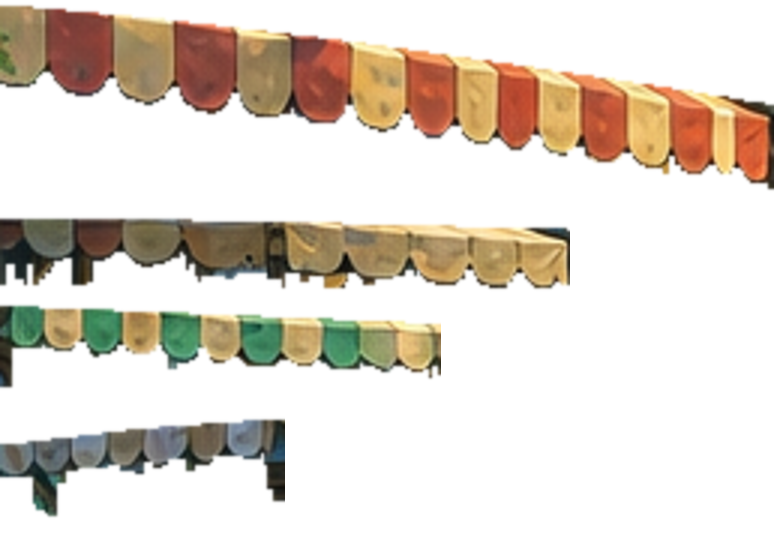
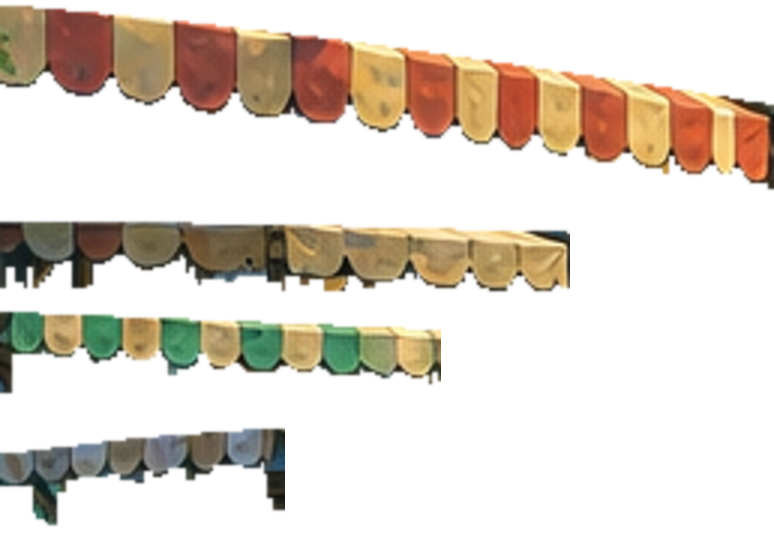
Elderbrook: swaying branch cut-out, repainted fringe backing, painted leaves, sky mask fix

diff --git a/eb/eb.js b/eb/eb.js
@@ -244,17 +244,33 @@ const P = { x: S.spawn[0], z: S.spawn[1], facing: S.facing, speed: 0 };
 
 // ---------------- VFX: falling leaves + sunlit dust motes ----------------
 const fx = new THREE.Group(); scene.add(fx);
-const leafTex = (() => { const c = document.createElement("canvas"); c.width = c.height = 32; const x = c.getContext("2d");
-  x.fillStyle = "#6f9a3a"; x.beginPath(); x.ellipse(16, 16, 11, 6, 0.6, 0, 7); x.fill(); x.strokeStyle = "#3f6a22"; x.lineWidth = 1.5; x.beginPath(); x.moveTo(7, 22); x.lineTo(25, 10); x.stroke();
-  return new THREE.CanvasTexture(c); })();
+// hand-painted leaves (a 2x2 sheet in the plate's style) on small curled cards, so they never read as flat squares
+const leafSheet = await texLoader.loadAsync("./plates/leaves.png"); leafSheet.colorSpace = THREE.SRGBColorSpace;
+const leafTexs = [0, 1, 2, 3].map(k => { const t = leafSheet.clone(); t.repeat.set(0.5, 0.5); t.offset.set((k % 2) * 0.5, k < 2 ? 0.5 : 0); t.needsUpdate = true; return t; });
+const leafGeo = new THREE.PlaneGeometry(1, 1, 6, 6);
+{ const q = leafGeo.attributes.position; for (let k = 0; k < q.count; k++) { const a = (q.getX(k) + q.getY(k)) * 0.7071, b = (q.getX(k) - q.getY(k)) * 0.7071;   // a = along the midrib, b = across it
+    q.setZ(k, 0.55 * b * b - 0.22 * a * a + 0.12 * a * b); } leafGeo.computeVertexNormals(); }
 const leaves = [];
-for (let i = 0; i < 14; i++) {
-  const m = new THREE.Mesh(new THREE.PlaneGeometry(0.16, 0.16), new THREE.MeshBasicMaterial({ map: leafTex, transparent: true, side: THREE.DoubleSide, depthWrite: false }));
+for (let i = 0; i < 9; i++) {
+  const m = new THREE.Mesh(leafGeo, new THREE.MeshBasicMaterial({ map: leafTexs[[0, 1, 2, 0, 1, 3, 2, 0, 1][i]], alphaTest: 0.02, transparent: true, opacity: 0, side: THREE.DoubleSide, depthWrite: false }));
   m.userData = { seed: Math.random() * 100 }; resetLeaf(m, true); fx.add(m); leaves.push(m);
 }
-function resetLeaf(m, any) {
-  m.position.set(-7 + Math.random() * 6, floorAt(0, -8) + 4 + Math.random() * (any ? 3 : 1.5), -4 - Math.random() * 9);
-  m.userData.vy = 0.25 + Math.random() * 0.25; m.userData.vx = 0.35 + Math.random() * 0.4;
+function resetLeaf(m, any) { const u = m.userData;
+  m.position.set(-9 + Math.random() * 12, floorAt(0, -8) + (any ? 0.5 + Math.random() * 5 : 4.5 + Math.random() * 1.5), -3.5 - Math.random() * 11);
+  u.vy = 0.38 + Math.random() * 0.22; u.vx = 0.25 + Math.random() * 0.3; u.w = 1.7 + Math.random() * 1.1; u.sway = 0.35 + Math.random() * 0.35;
+  u.spin = Math.random() < 0.45 ? 2.2 + Math.random() * 2.5 : 0; u.age = 0; u.rest = 0; m.scale.setScalar(0.2 + Math.random() * 0.12);
+}
+function updateLeaf(m, dt) { const u = m.userData; u.age += dt;
+  if (u.rest > 0) { u.rest += dt; m.material.opacity = Math.max(0, 1 - (u.rest - 2.5) / 1.5); if (u.rest > 4) resetLeaf(m, false); return; }
+  const sw = time * u.w + u.seed, s = Math.sin(sw), c = Math.cos(sw);
+  // a falling leaf glides side to side like a pendulum: fastest and flattest mid-swing, stalling and dropping at each end
+  m.position.y -= u.vy * (0.55 + 0.75 * s * s) * dt;
+  m.position.x += (u.vx * (0.6 + 0.8 * Math.sin(time * 0.31 + u.seed)) + u.sway * u.w * c * 0.5) * dt;
+  m.position.z += 0.12 * Math.sin(sw * 0.63 + 1.0) * dt;
+  m.rotation.set(u.spin ? time * u.spin + u.seed : -1.15 + 0.35 * Math.sin(sw * 2.0), u.seed + time * 0.4, -0.75 * c);   // banks into each swing; some also tumble end over end
+  m.material.opacity = Math.min(1, u.age / 0.7);
+  const gy = floorAt(m.position.x, m.position.z) + 0.02;
+  if (m.position.y < gy) { m.position.y = gy; m.rotation.set(-Math.PI / 2, 0, u.seed); u.rest = 0.001; }       // settles flat on the cobbles, then fades
 }
 const moteGeo = new THREE.BufferGeometry(), N = 90, mp = new Float32Array(N * 3);
 for (let i = 0; i < N; i++) mp.set([-6 + Math.random() * 12, Math.random() * 3.5, -4 - Math.random() * 14], i * 3);
@@ -316,8 +332,7 @@ function step(dt) {
   sun.position.copy(hero.position).addScaledVector(sunDir, 30); sun.target.position.copy(hero.position);
   // VFX
   window.__cloudMat.uniforms.t.value = time; lightU.lightT.value = time;
-  for (const m of leaves) { const u = m.userData; m.position.y -= u.vy * dt; m.position.x += (u.vx + Math.sin(time * 1.3 + u.seed) * 0.4) * dt;
-    m.rotation.set(time * 1.7 + u.seed, time * 2.3 + u.seed, time + u.seed); if (m.position.y < floorAt(m.position.x, m.position.z) + 0.05) resetLeaf(m, false); }
+  for (const m of leaves) updateLeaf(m, dt);
   const mpos = moteGeo.attributes.position; for (let i = 0; i < N; i++) { mpos.array[i * 3 + 1] += Math.sin(time * 0.6 + i) * 0.0015; mpos.array[i * 3] += 0.002 * Math.sin(time * 0.3 + i * 1.7); } mpos.needsUpdate = true;
   // exits
   nearExit = S.exits.find(x => P.z < x.z) || null;
@@ -423,6 +438,38 @@ const banners = [];
             #include <colorspace_fragment>
           }` });
       const m = new THREE.Mesh(g, mat); m.frustumCulled = false; m.renderOrder = 5; scene.add(m); banners.push(m); }); } }
+// The branch overhanging the corner: one cut-out that rocks from where it leaves the frame, its leaf clumps stirring on top of that.
+{ const bj = await fetch(`${base}_branch.json`).then(r => r.ok ? r.json() : null).catch(() => null);
+  if (bj) { const tex = await texLoader.loadAsync(`${base}_branch.png`); tex.colorSpace = THREE.SRGBColorSpace;
+    const [PW, PH] = bj.size, [x0, y0, x1, y1] = bj.rect, D = bj.depth, g = new THREE.PlaneGeometry(1, 1, 36, 12), pos = g.attributes.position, uv = g.attributes.uv, hang = new Float32Array(pos.count * 2), v = new THREE.Vector3();
+    for (let k = 0; k < pos.count; k++) { const px = x0 + (x1 - x0) * uv.getX(k), py = y0 + (y1 - y0) * (1 - uv.getY(k));
+      v.set((px / PW * K.width - K.cx) / K.fx * D, -(py / PH * K.height - K.cy) / K.fy * D, -D).applyMatrix4(camera.matrixWorld); pos.setXYZ(k, v.x, v.y, v.z);
+      hang[k * 2] = px - bj.pivot[0]; hang[k * 2 + 1] = py - bj.pivot[1]; }
+    g.setAttribute("hang", new THREE.BufferAttribute(hang, 2));
+    const mat = new THREE.ShaderMaterial({ transparent: true, depthWrite: false, side: THREE.DoubleSide,
+      uniforms: { map: { value: tex }, t: { value: 0 }, pxw: { value: K.width / PW / K.fx * D }, amp: { value: +(params.get("cloth") || 1) } },
+      vertexShader: `attribute vec2 hang; uniform float t, pxw, amp; varying vec2 vUv; varying float vSh;
+        float hash(vec2 p){ return fract(sin(dot(p, vec2(127.1, 311.7))) * 43758.5453); }
+        float vnoise(vec2 p){ vec2 i = floor(p), f = fract(p); f = f * f * (3.0 - 2.0 * f);
+          return mix(mix(hash(i), hash(i + vec2(1.0, 0.0)), f.x), mix(hash(i + vec2(0.0, 1.0)), hash(i + vec2(1.0, 1.0)), f.x), f.y); }
+        void main(){
+          vUv = uv; float r = length(hang) / 300.0;
+          float gust = smoothstep(0.25, 0.7, vnoise(vec2(0.1 * 2.2 - t * 0.3, 1.5 + t * 0.05))), wind = 0.25 + 0.75 * gust;
+          // the bough dips and recovers; the further from where it is anchored, the more it travels
+          float ang = amp * wind * (0.012 * sin(t * 0.8) + 0.02 * (vnoise(vec2(t * 0.35, 4.0)) - 0.5));
+          vec2 d = vec2(-hang.y, hang.x) * ang;
+          // leaf clumps stir on their own
+          vec2 q = hang * 0.022;
+          d += amp * wind * r * 3.2 * (vec2(vnoise(q + vec2(t * 0.9, 0.0)), vnoise(q * 1.2 + vec2(7.0, t * 0.7))) - 0.5);
+          d += amp * wind * r * 1.2 * (vec2(vnoise(q * 3.1 + vec2(t * 2.1, 3.0)), vnoise(q * 2.7 + vec2(1.0, t * 1.8))) - 0.5);
+          vec4 mv = modelViewMatrix * vec4(position, 1.0); mv.x += d.x * pxw; mv.y -= d.y * pxw;
+          vSh = 1.0 + 0.08 * wind * (vnoise(q * 1.5 + vec2(t * 0.8, 9.0)) - 0.5) * 2.0;
+          gl_Position = projectionMatrix * mv; }`,
+      fragmentShader: `uniform sampler2D map; varying vec2 vUv; varying float vSh;
+        void main(){ vec4 c = texture2D(map, vUv); if (c.a < 0.01) discard; gl_FragColor = vec4(c.rgb * vSh, c.a);
+          #include <colorspace_fragment>
+        }` });
+    const m = new THREE.Mesh(g, mat); m.frustumCulled = false; m.renderOrder = 6; scene.add(m); banners.push(m); } }
 function animateFx() {
   for (const b of banners) b.material.uniforms.t.value = time;
   bgMat.uniforms.t.value = time; shaftMat.uniforms.t.value = time;

diff --git a/eb/index.html b/eb/index.html
@@ -47,6 +47,6 @@
 <div id="dialog"><div class="n"></div><div class="x"></div></div>
 <div id="fade"></div>
 <div id="title"><h1>Elderbrook</h1><p>WASD / arrows to walk &nbsp;·&nbsp; Shift to run &nbsp;·&nbsp; E to inspect</p><div class="go" id="go">Loading…</div></div>
-<script type="module" src="./eb.js?v=3"></script>
+<script type="module" src="./eb.js?v=4"></script>
 </body>
 </html>
